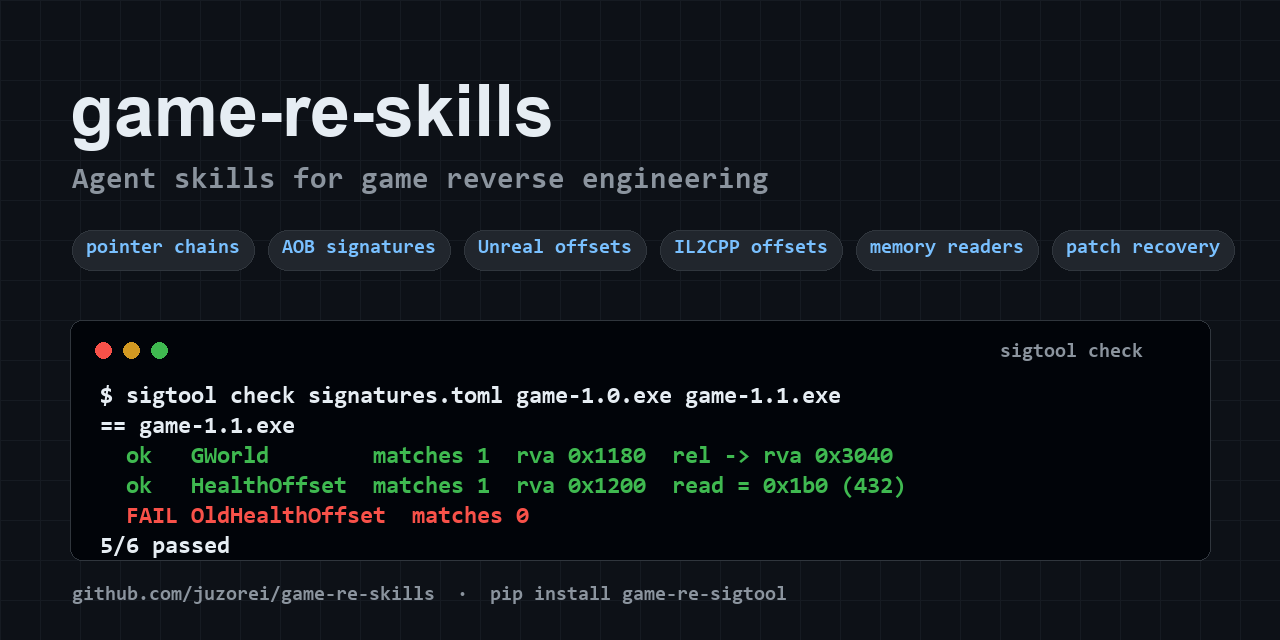
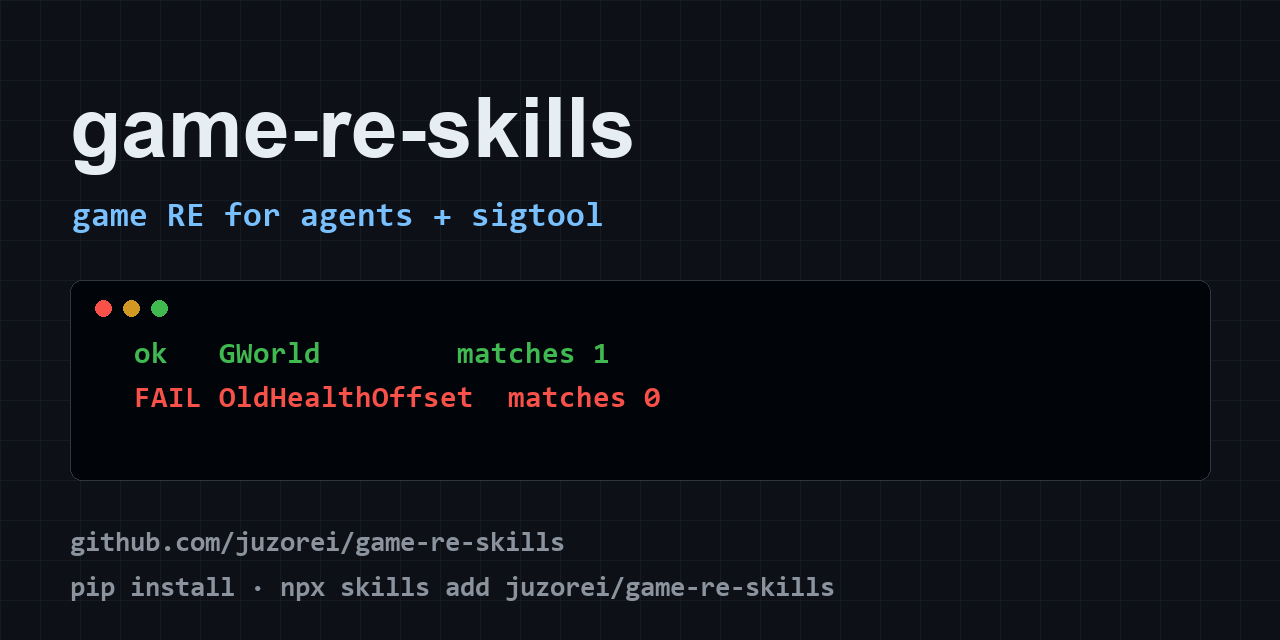
Portfolio polish: cross-links in both READMEs, CONTRIBUTING, social preview card

diff --git a/README.ru.md b/README.ru.md
@@ -68,6 +68,16 @@ npx skills add juzorei/game-re-skills
 pip install game-re-sigtool
 ```
 
+## Ещё из портфеля
+
+Один из серии прицельных наборов «скилл + CLI» одного автора:
+
+- [uitree](https://github.com/juzorei/uitree) — UIA-автоматизация той же десктопной работы
+- [harrecon](https://github.com/juzorei/harrecon) — реверс с сетевой стороны
+- [skilldoctor](https://github.com/juzorei/skilldoctor) — чистота установленного набора скиллов
+
+Остальные — в [профиле juzorei](https://github.com/juzorei?tab=repositories).
+
 ## Рамки
 
 Скиллы предназначены для одиночных и офлайн-игр, моддинга, совместимости, исследований и собственных приватных серверов. Они не помогают обходить античит, скрываться от детекта или читерить в онлайн-мультиплеере, и агент прямо об этом скажет. Подробнее в [SCOPE.md](SCOPE.md).

diff --git a/README.md b/README.md
@@ -78,6 +78,16 @@ Then install sigtool:
 pip install game-re-sigtool
 ```
 
+## More from this portfolio
+
+Part of a series of focused skill+CLI tools by the same author:
+
+- [uitree](https://github.com/juzorei/uitree) — the UIA-automation side of the same desktop work
+- [harrecon](https://github.com/juzorei/harrecon) — network-facing reverse engineering
+- [skilldoctor](https://github.com/juzorei/skilldoctor) — keep installed skills clean
+
+Browse the rest at the [juzorei profile](https://github.com/juzorei?tab=repositories).
+
 ## Scope
 
 These skills are for single-player and offline games, modding, interoperability, research and private servers you run yourself. They don't help bypass anti-cheat, hide from detection, or cheat in online multiplayer, and the agent will say so. See [SCOPE.md](SCOPE.md).
